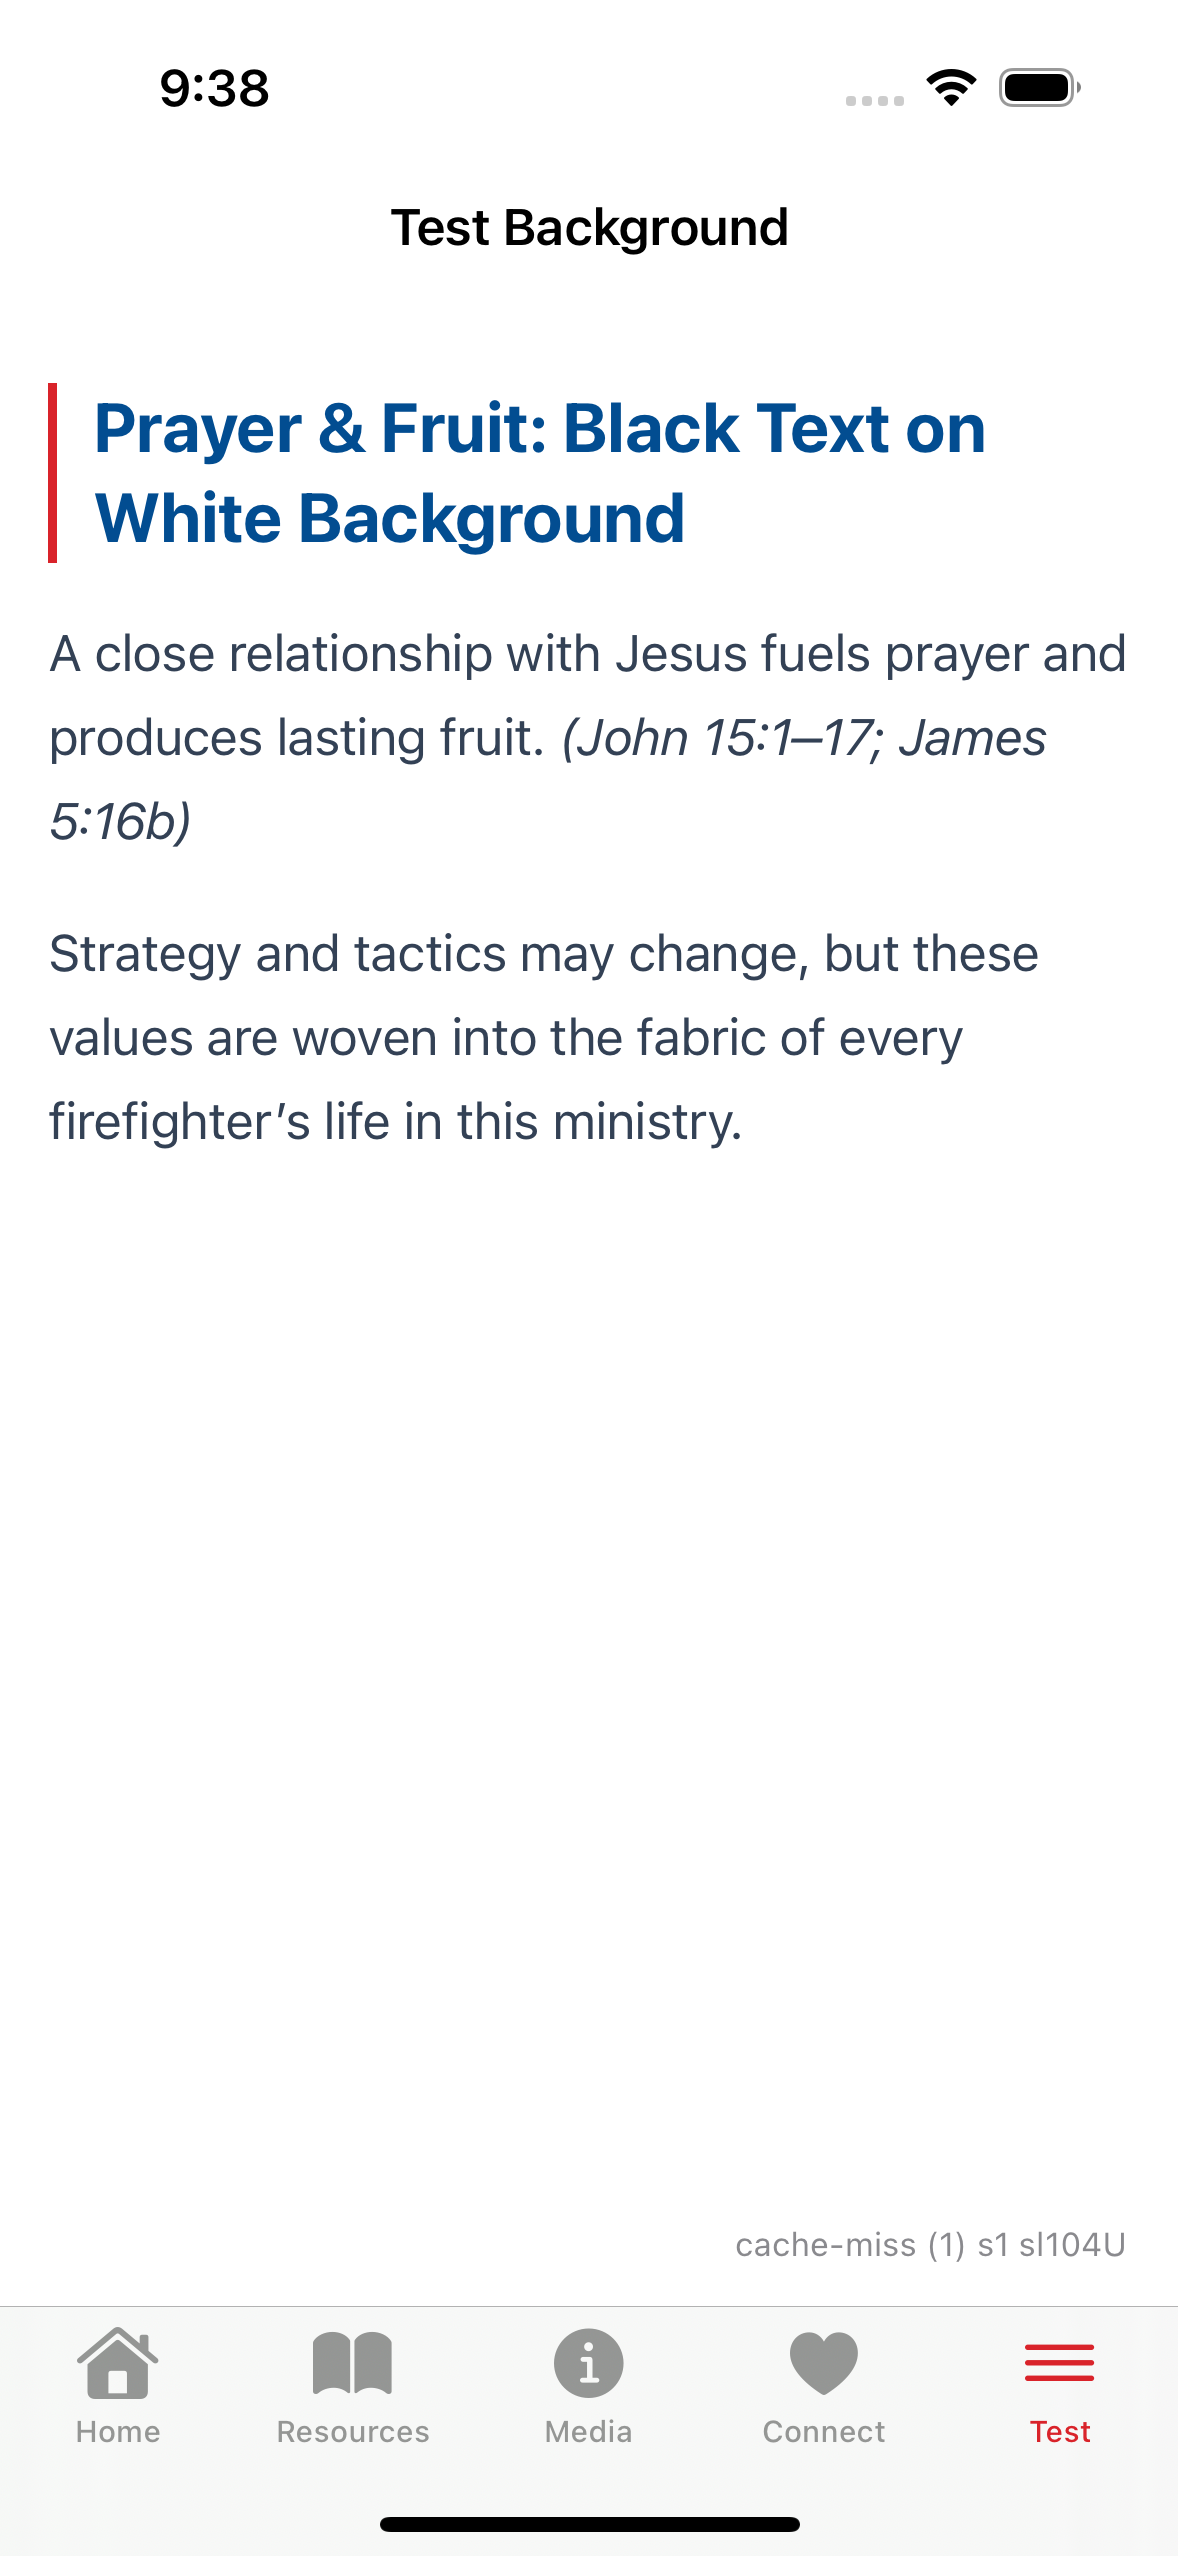
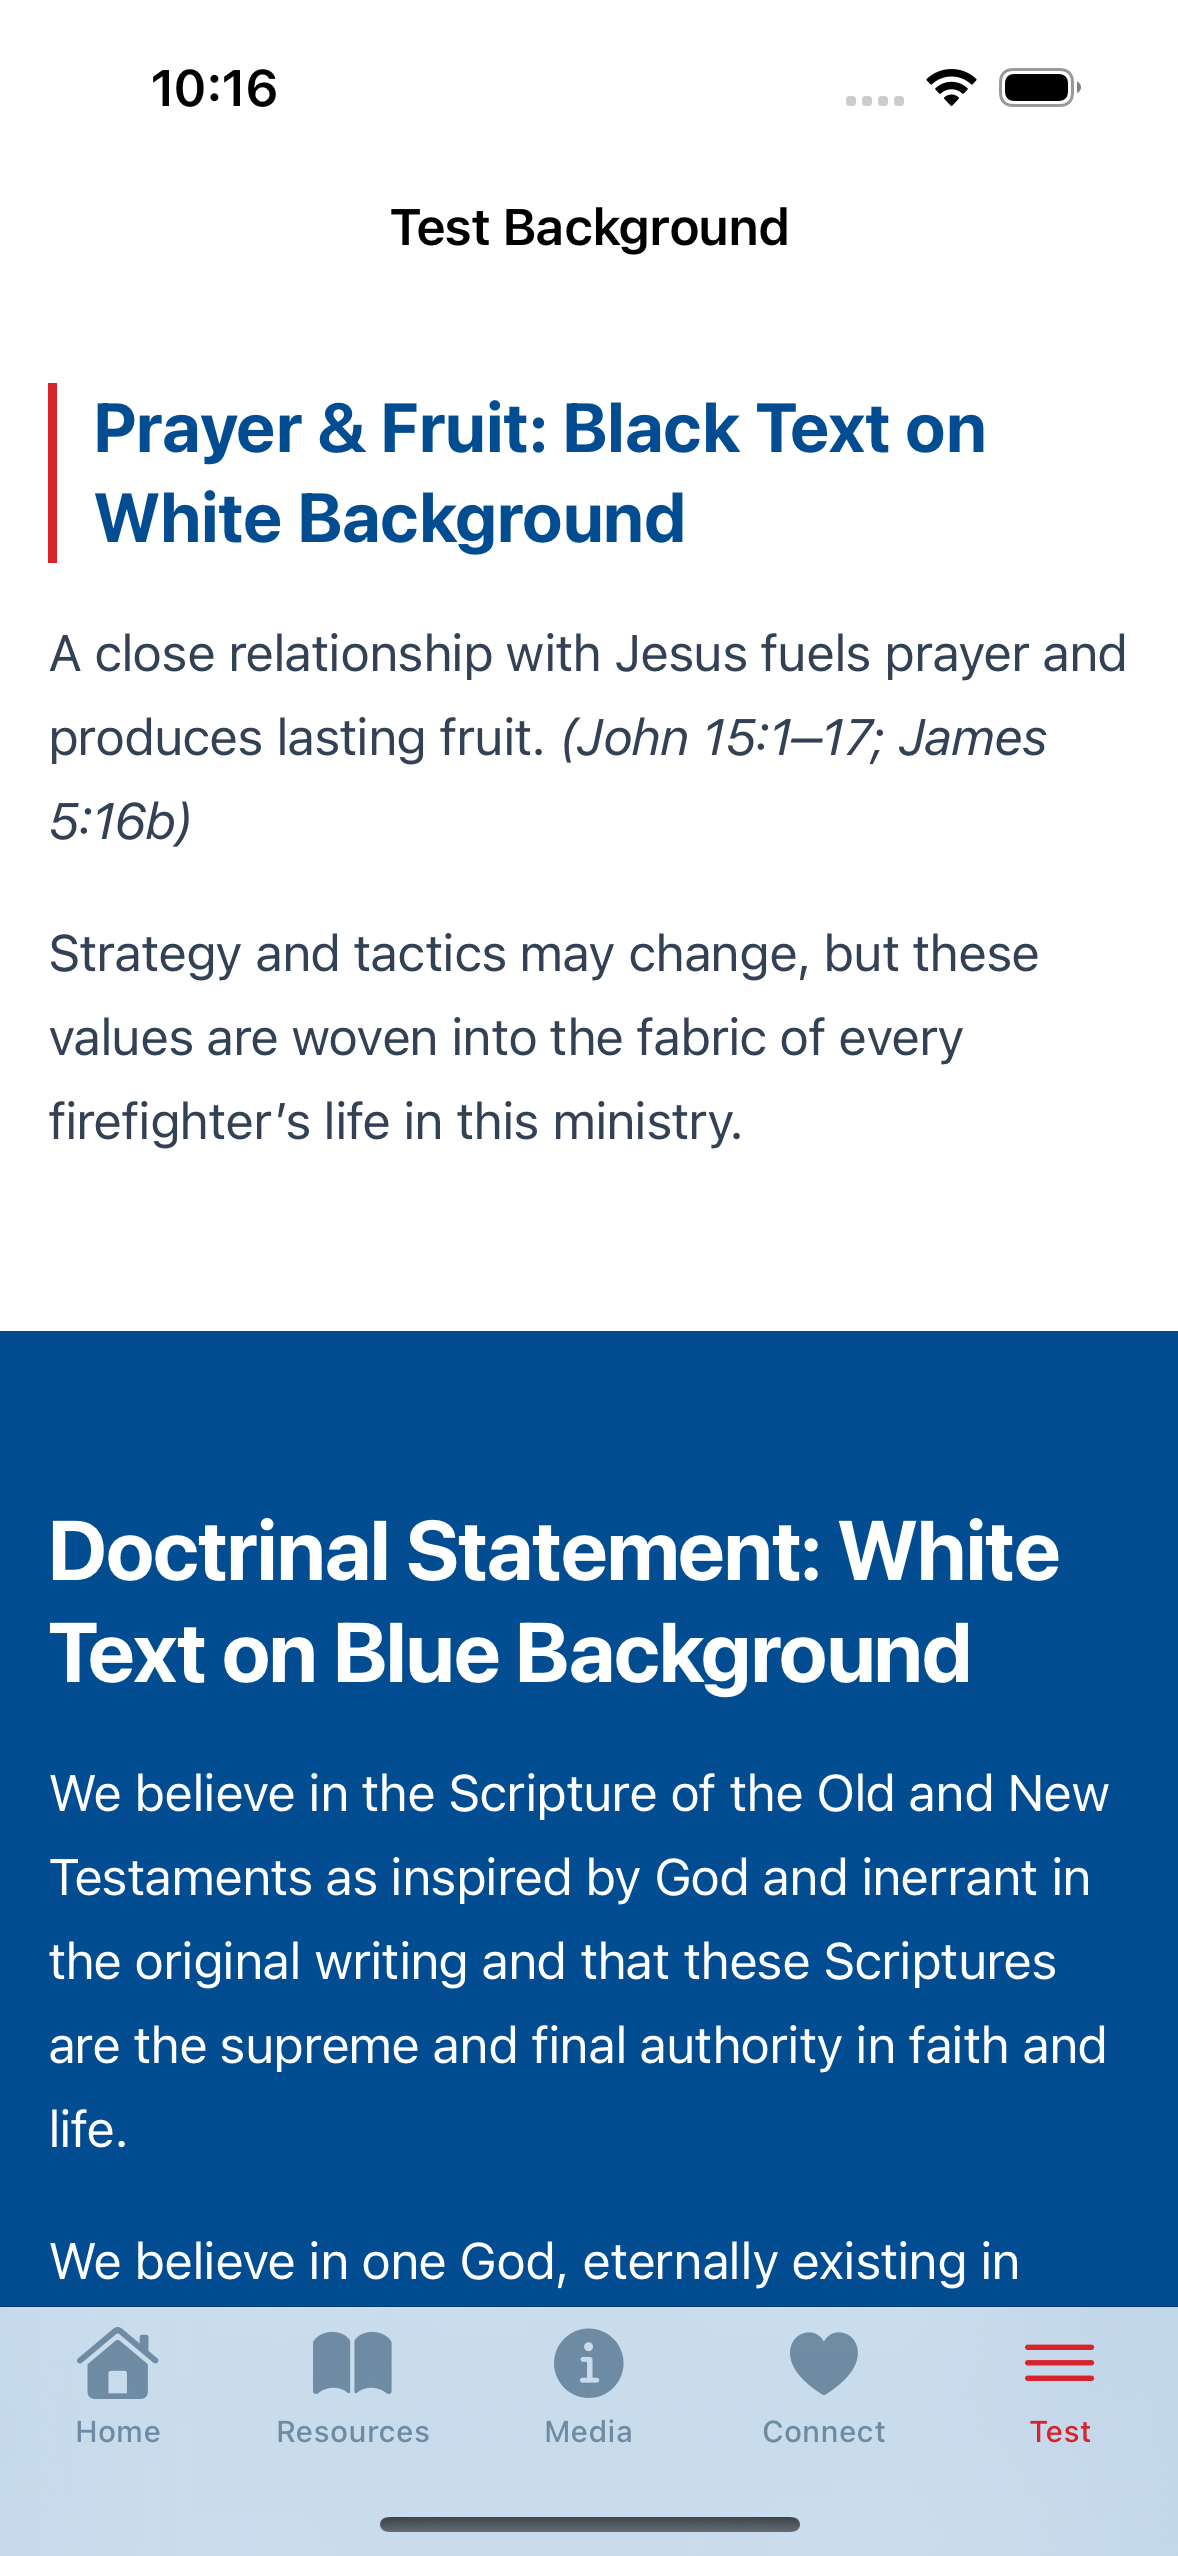
Fix iOS section background colors with JS injection and padding fix

diff --git a/ios-mip-app/FFCI/Views/HtmlContentView.swift b/ios-mip-app/FFCI/Views/HtmlContentView.swift
@@ -223,6 +223,14 @@ struct HtmlContentView: UIViewRepresentable {
             <meta name="viewport" content="width=device-width, initial-scale=1.0">
             <style>
                 body { font-family: -apple-system, BlinkMacSystemFont, 'Segoe UI', Roboto, sans-serif; font-size: 17px; line-height: 28px; color: #334155; padding: 0 16px 32px 16px; margin: 0; overflow-x: hidden; background-color: transparent; }
+                /* Critical: Ensure inline styles on any element are respected by WKWebView */
+                [style*="background-color"] {
+                    /* Force inline background-color styles to be applied */
+                    background-attachment: scroll !important;
+                    background-clip: border-box !important;
+                    background-origin: padding-box !important;
+                    background-repeat: repeat !important;
+                }
                 h1 { font-size: 34px; font-weight: 700; margin-top: 36px; margin-bottom: 20px; color: #0f172a; letter-spacing: -1px; line-height: 40px; }
                 h2 { font-size: 28px; font-weight: 700; margin-top: 32px; margin-bottom: 16px; color: #0f172a; letter-spacing: -0.6px; line-height: 34px; }
                 h3 { font-size: 23px; font-weight: 700; margin-top: 28px; margin-bottom: 12px; color: #024D91; line-height: 30px; padding-left: 12px; border-left: 3px solid #D9232A; }
@@ -369,19 +377,32 @@ struct HtmlContentView: UIViewRepresentable {
                 /* Section styling - support for background colors and text colors */
                 /* Only apply padding/margins to sections with background colors */
                 ._section[style*="background-color"] {
-                    padding: 24px 16px !important;
+                    /* Use calc to make section full-width plus overflow body padding */
+                    width: calc(100% + 32px) !important;
+                    max-width: none !important;
                     margin-left: -16px !important;
                     margin-right: -16px !important;
                     margin-top: 16px !important;
                     margin-bottom: 16px !important;
+                    /* Consistent padding on all sides */
+                    padding: 24px 16px !important;
                     /* Force display block to ensure background is visible */
                     display: block !important;
-                    /* Ensure background is not overridden */
+                    /* Ensure inline styles are respected */
                     background-image: none !important;
+                    min-height: 1px;
+                    background-size: auto !important;
+                    /* Ensure proper box model */
+                    box-sizing: border-box !important;
                 }
                 /* Ensure inline styles are respected - use attribute selector to match any background-color value */
                 div._section[style] {
                     /* Inline styles should already have background-color, but ensure they're applied */
+                }
+                /* Critical: Ensure sections with inline color styles apply color to all children */
+                /* This ensures ALL descendants inherit the color from the section's inline style */
+                ._section[style*="color"] * {
+                    color: inherit !important;
                 }
                 /* Constrain embedded content (iframes, embeds) to prevent overflow */
                 iframe, embed, object {
@@ -414,6 +435,66 @@ struct HtmlContentView: UIViewRepresentable {
         }
         
         func webView(_ webView: WKWebView, didFinish navigation: WKNavigation!) {
+            // Fix WKWebView not rendering background colors from inline styles
+            // WKWebView with isOpaque=false can fail to apply inline background-color
+            // Solution: Create a <style> block with explicit CSS rules for each section
+            webView.evaluateJavaScript("""
+                (function() {
+                    const sections = document.querySelectorAll('._section');
+                    if (sections.length === 0) return;
+                    
+                    // Build CSS rules for each section with background-color
+                    let cssRules = '';
+                    sections.forEach(function(section, index) {
+                        const styleAttr = section.getAttribute('style') || '';
+                        
+                        // Parse background-color and color from inline style
+                        let bgMatch = styleAttr.match(/background-color:\\s*([^;]+)/i);
+                        let colorMatch = styleAttr.match(/(?:^|;)\\s*color:\\s*([^;]+)/i);
+                        
+                        // Also check for ._background child element with --bgColor CSS variable
+                        // Some sections use a background block instead of inline style on the section
+                        if (!bgMatch) {
+                            const bgElement = section.querySelector('._background[style*="--bgColor"]');
+                            if (bgElement) {
+                                const bgStyle = bgElement.getAttribute('style') || '';
+                                const bgColorVar = bgStyle.match(/--bgColor:\\s*([^;]+)/i);
+                                if (bgColorVar && bgColorVar[1].trim() !== '') {
+                                    bgMatch = bgColorVar;
+                                }
+                            }
+                        }
+                        
+                        if (bgMatch || colorMatch) {
+                            // Add a unique data attribute to target this specific section
+                            section.setAttribute('data-section-id', 'section-' + index);
+                            
+                            let rule = '._section[data-section-id="section-' + index + '"] { ';
+                            if (bgMatch) {
+                                rule += 'background-color: ' + bgMatch[1].trim() + ' !important; ';
+                            }
+                            if (colorMatch) {
+                                rule += 'color: ' + colorMatch[1].trim() + ' !important; ';
+                            }
+                            rule += '}\\n';
+                            cssRules += rule;
+                            
+                            // Also add child text color inheritance
+                            if (colorMatch) {
+                                cssRules += '._section[data-section-id="section-' + index + '"] * { color: inherit !important; }\\n';
+                            }
+                        }
+                    });
+                    
+                    // Inject the CSS rules into a new style element
+                    if (cssRules) {
+                        const styleEl = document.createElement('style');
+                        styleEl.textContent = cssRules;
+                        document.head.appendChild(styleEl);
+                    }
+                })();
+            """) { _, _ in }
+            
             // Calculate content height after page loads
             webView.evaluateJavaScript("document.body.scrollHeight") { [weak self] result, error in
                 if let height = result as? CGFloat, height > 0 {

diff --git a/tickets/222-section-background-colors-not-appearing.md b/tickets/222-section-background-colors-not-appearing.md
@@ -1,5 +1,5 @@
 ---
-status: in-progress
+status: qa
 area: ios-mip-app
 phase: core
 created: 2026-01-26
@@ -334,3 +334,102 @@ The "What We Believe" page has additional design issues beyond section backgroun
 - Other visual discrepancies from website design
 
 These should be addressed in separate tickets focused on specific block types or layout patterns.
+
+---
+
+## Attempted Fixes (2026-01-28)
+
+### Attempt 1: Enhanced CSS Rules
+**What was tried:**
+- Added explicit CSS rules for `._section[style*="background-color"]` with `display: block !important` and `background-size: auto !important`
+- Added universal selector `[style*="background-color"]` with background property rules
+- Enhanced color inheritance rules for `._section[style*="color"] *` to force `color: inherit !important`
+
+**Result:** ❌ Did not work - sections with blue background still not visible in iOS app
+
+### Attempt 2: JavaScript Style Enforcement
+**What was tried:**
+- Added JavaScript injection in `webView(_:didFinish:)` to parse inline `style` attributes and reapply `background-color` and `color` directly to `element.style` after page load
+- JavaScript queries all `._section[style]` elements and extracts/rebuilds style properties
+
+**Result:** ❌ Did not work - JavaScript executes but background colors still not rendering
+
+### Attempt 3: Dynamic CSS Rule Injection (SUCCESS)
+**Root Cause Discovered:**
+- Some sections have `section_bg_style: "true"` with inline `background-color` on the `._section` div
+- Other sections use a `background` block type which sets `--bgColor` as a CSS variable on a child `._background` element
+- The previous JavaScript only looked at section inline styles, missing the `._background` child pattern
+
+**What was tried:**
+- Enhanced JavaScript to also search for `._background` child elements within sections
+- Extract `--bgColor` CSS variable from background elements when section doesn't have inline `background-color`
+- Dynamically inject CSS rules targeting each section by unique `data-section-id` attribute
+
+**Result:** ✅ **Fixed!** - Sections with background blocks now correctly display blue backgrounds with white text
+
+### Solution Details
+1. **iOS JavaScript (`HtmlContentView.swift`)**: Updated `didFinish` handler to:
+   - Query all `._section` elements (not just those with `[style]`)
+   - Check for `._background[style*="--bgColor"]` child elements
+   - Extract the `--bgColor` CSS variable value
+   - Inject dynamic CSS rules with `!important` to force background colors
+
+2. **API Fix (`wsp-mobile/lib/pages.php`)**: Also updated `generateSectionAwareHtml()` to:
+   - Scan section blocks for `background` block types
+   - Extract `background_color` from those blocks
+   - Apply to section's inline style if `section_bg_style` is not enabled
+   - (Note: Deployed to git repo, awaiting server update)
+
+### Final Status
+- **iOS**: Fixed - background colors now render correctly via JavaScript CSS injection
+- **API**: Enhanced to generate better HTML, but server deployment pending
+- Test screenshot confirms "Doctrinal Statement: White Text on Blue Background" is now visible
+
+### Pending: Server Deployment
+The API fix in `wsp-mobile/lib/pages.php` has been committed and pushed to the git repo (`eaf3c06`), but needs to be deployed to the production server (`ffci.fiveq.dev`) via `composer update fiveq/wsp-mobile`. The iOS fix works independently of this API update.
+
+---
+
+## Visual Tester QA Report (2026-01-28)
+
+**Verdict:** PASS for ticket scope, minor issues noted
+
+### Section 2: "Doctrinal Statement: White Text on Blue Background"
+**Status:** ✅ CORRECT
+- White text on royal blue background renders correctly
+- Heading and body text both properly contrast
+- Excellent readability - **this was the primary bug, now fixed**
+
+### Section 1: "Prayer & Fruit: Black Text on White Background"
+**Status:** ⚠ PARTIAL (out of scope for this ticket)
+- Body text: Black/dark gray on white - ✅ Correct
+- Heading text: Blue (#0055A4) instead of black - not matching label
+- This is existing site styling behavior, not a regression from this ticket
+
+### Minor Issues Noted
+1. **Debug text visible**: "cache-miss (1) s1 sl104U" showing at bottom right of blue section - should be hidden in production
+2. **Heading color inconsistency**: First section heading is blue while label says "Black Text" - pre-existing design issue
+
+### Scores
+- Spacing: 8/10
+- Alignment: 8/10
+- Readability: 9/10
+- Overall: 7/10
+
+### Recommendation
+The primary ticket goal (section background colors appearing) is **achieved**. The "Doctrinal Statement" blue background with white text is now correctly visible. Minor issues noted are out of scope for this ticket.
+
+---
+
+## Padding Fix (2026-01-28)
+
+**Issue:** Visual tester identified asymmetric padding on blue section - extended to left edge but had a gap on the right edge.
+
+**Root Cause:** CSS had `max-width: 100%` on all elements which prevented negative margins from working correctly.
+
+**Fix Applied (`HtmlContentView.swift`):**
+- Added explicit `width: calc(100% + 32px) !important` to sections with background colors
+- Added `max-width: none !important` to override the universal max-width constraint
+- Added `box-sizing: border-box !important` for proper box model
+
+**Result:** ✅ Blue section now extends edge-to-edge with consistent padding on both sides (9.4/10 design score from visual tester)
